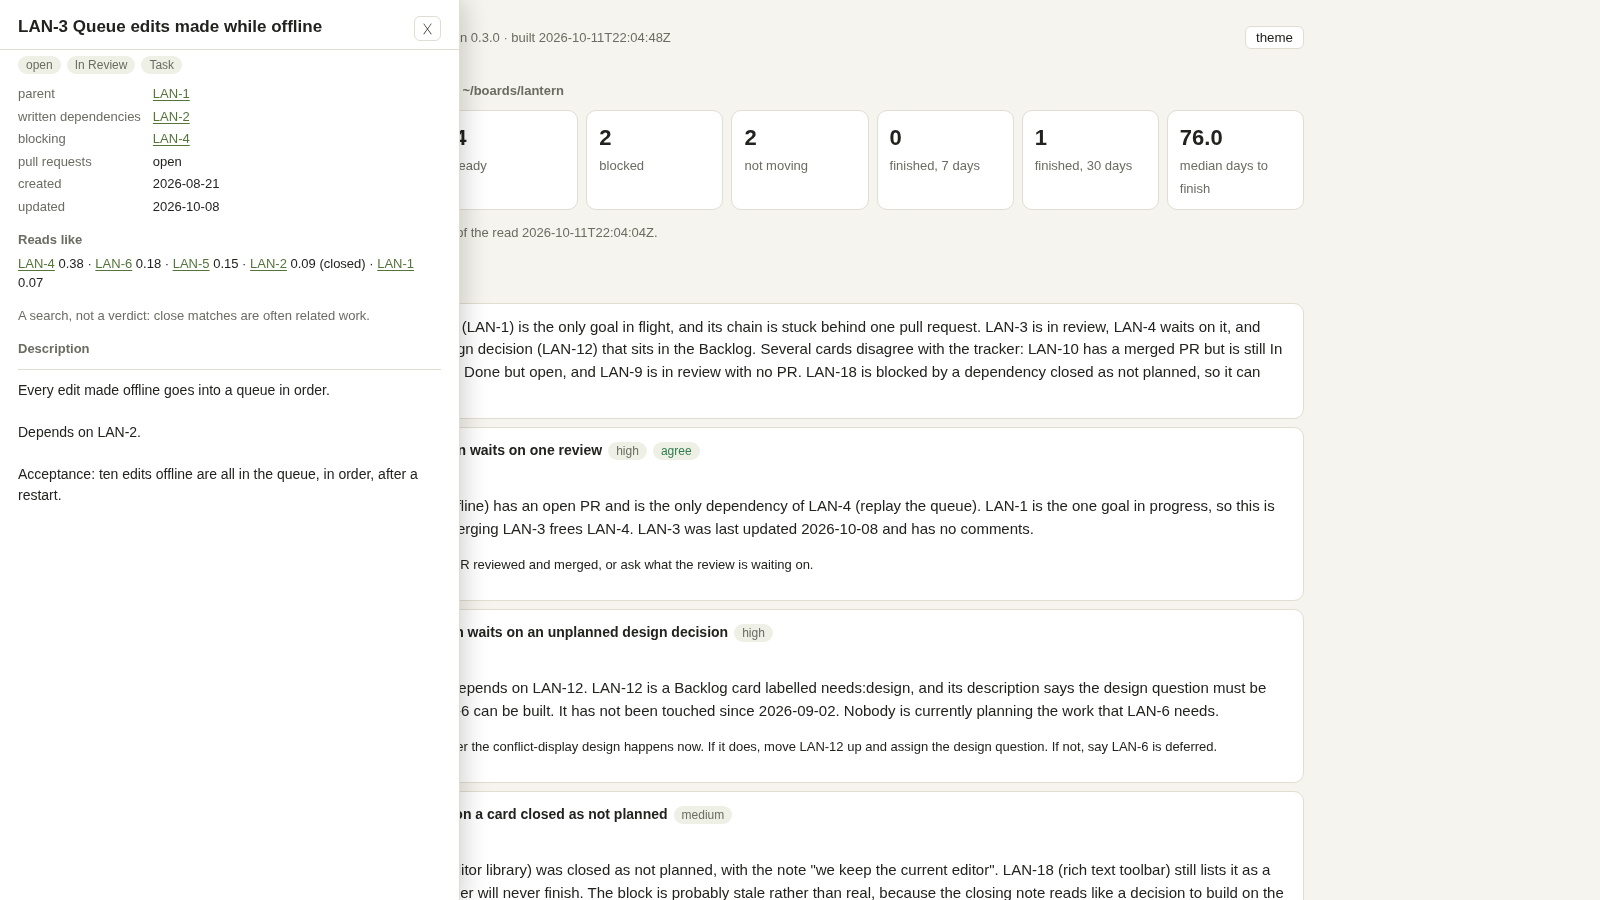
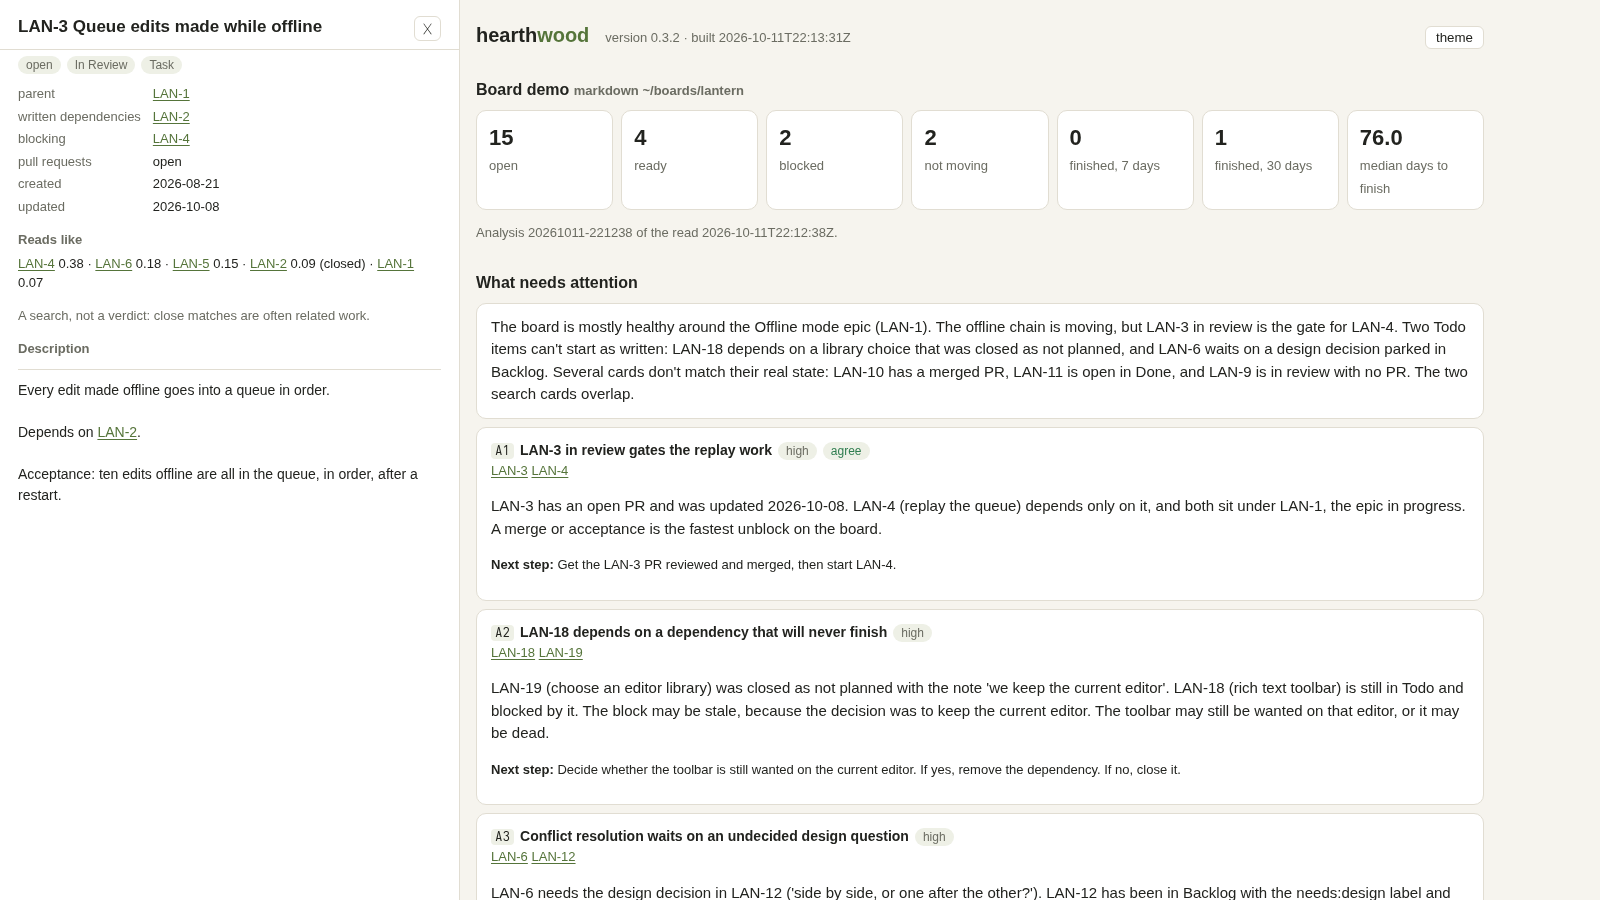
hearthwood 0.3.2: card numbers in a description open the card; every card can open; the findings' arrow on its line

diff --git a/src/hearthwood/worklog.py b/src/hearthwood/worklog.py
@@ -4,8 +4,8 @@ No server and no model writes it. Open ~/.hearthwood/log.html in a browser; relo
 
 A card number on the page opens that card in a panel. The page carries the cards it mentions, whole,
 as JSON beside the board's section, and the panel's script builds every node with textContent: a
-card's text is shown, never run. Cards the page only points to (a parent, a dependency, a close
-match) are carried as a stub: key, title, state, column, link.
+card's text is shown, never run. Every other card on the board is carried as a stub (key, title,
+state, column, link), so a card number met anywhere in the panel, a description included, opens.
 """
 
 import html
@@ -33,7 +33,7 @@ button.theme{margin-left:auto;background:var(--panel);color:var(--ink);border:1p
 .v-agree{color:var(--green)}.v-disagree{color:var(--red)}
 a{color:var(--accent)}code{font:12.5px ui-monospace,SFMono-Regular,Menlo,monospace;background:var(--chip);padding:0 4px;border-radius:4px}
 pre{white-space:pre-wrap;word-break:break-word;background:var(--panel);border:1px solid var(--line);border-radius:8px;padding:10px;font:12.5px/1.45 ui-monospace,SFMono-Regular,Menlo,monospace}
-details>summary{cursor:pointer}
+details>summary{cursor:pointer;list-style:none;display:flex;gap:8px;align-items:baseline}details>summary::-webkit-details-marker{display:none}details>summary::before{content:'▸';color:var(--mute);flex:none}details[open]>summary::before{content:'▾'}
 table{border-collapse:collapse;width:100%;font-size:13px}td,th{text-align:left;padding:4px 6px;border-bottom:1px solid var(--line)}
 button.key{font:inherit;color:var(--accent);background:none;border:0;padding:0;cursor:pointer;text-decoration:underline;text-underline-offset:2px}
 button.key:hover,button.key:focus-visible{color:var(--ink)}
@@ -65,6 +65,11 @@ function key(b,k,extra){var c=card(b,k);if(!c)return txt(k+(extra||''));var x=el
   x.title=c.title||'';var s=el('span');s.appendChild(x);if(extra)s.appendChild(txt(extra));return s}
 function keys(b,ks){var s=el('span');(ks||[]).forEach(function(k,i){if(i)s.appendChild(txt(', '));s.appendChild(key(b,k))});return s}
 function row(dl,label,node){if(!node)return;dl.appendChild(el('dt',null,label));var d=el('dd');d.appendChild(typeof node==='string'?txt(node):node);dl.appendChild(d)}
+function linked(b,text){var d=el('div','desc'),re=/#\d+|[A-Z][A-Z0-9_]*-\d+/g,at=0,m;
+  while((m=re.exec(text))){var before=m.index?text.charAt(m.index-1):'',after=text.charAt(m.index+m[0].length);
+    if(/[\w#-]/.test(before)||/[\w-]/.test(after)||!card(b,m[0]))continue;
+    if(m.index>at)d.appendChild(txt(text.slice(at,m.index)));d.appendChild(key(b,m[0]));at=m.index+m[0].length}
+  if(at<text.length)d.appendChild(txt(text.slice(at)));return d}
 function day(x){return x?String(x).slice(0,10):''}
 function state(c){return c.state+(c.close_reason?' ('+String(c.close_reason).replace('_',' ')+')':'')}
 function hashOf(b,k){return 'card='+(boards.length>1?encodeURIComponent(b)+'/':'')+encodeURIComponent(k)}
@@ -76,7 +81,7 @@ function show(b,k){var c=card(b,k);if(!c)return;P.textContent='';P.dataset.board
   var hd=el('header');var h=el('h2',null,k+' '+(c.title||''));h.id='panel-title';hd.appendChild(h);
   var x=el('button','close','✕');x.type='button';x.setAttribute('aria-label','Close');x.onclick=close;hd.appendChild(x);P.appendChild(hd);
   var chips=el('div','row');[state(c),c.column,c.kind].concat(c.labels||[]).forEach(function(v){if(v)chips.appendChild(el('span','chip',v))});P.appendChild(chips);
-  if(c.stub){P.appendChild(el('p','mute small','Only the cards this page mentions are carried whole; this one is pointed to.'))}
+  if(c.stub){P.appendChild(el('p','mute small','The page carries in full only the cards it mentions; this card\'s description is not on it.'))}
   else{var dl=el('dl');
     row(dl,'parent',c.parent?key(b,c.parent):null);
     row(dl,'sub-items',c.children&&c.children.length?keys(b,c.children):null);
@@ -95,7 +100,7 @@ function show(b,k){var c=card(b,k);if(!c)return;P.textContent='';P.dataset.board
       c.similar.forEach(function(m,i){if(i)ul.appendChild(txt(' · '));var o=card(b,m[0]);
         ul.appendChild(key(b,m[0],' '+Number(m[1]).toFixed(2)+(o&&o.state&&o.state!=='open'?' ('+o.state+')':'')))});
       P.appendChild(ul);P.appendChild(el('p','mute small','A search, not a verdict: close matches are often related work.'))}
-    P.appendChild(el('h3',null,'Description'));P.appendChild(el('div','desc',(c.body||'').trim()||'(empty)'))}
+    P.appendChild(el('h3',null,'Description'));P.appendChild(linked(b,(c.body||'').trim()||'(empty)'))}
   if(/^https?:\/\//.test(c.url||'')){var a=el('a',null,/^https:\/\/github\.com\//.test(c.url)?'Open on GitHub':'Open in the tracker');
     a.href=c.url;a.rel='noopener';var pp=el('p','small');pp.appendChild(a);P.appendChild(pp)}
   P.classList.add('open');document.body.classList.add('panel-open');P.setAttribute('aria-hidden','false');P.scrollTop=0;x.focus()}
@@ -130,7 +135,8 @@ CARD_FIELDS = ("key", "title", "state", "close_reason", "column", "kind", "label
 
 
 def card_data(items, ref, similar, people):
-    """What the panel shows: the cards in `ref` whole, the cards they point to as stubs."""
+    """What the panel shows: the cards in `ref` whole, every other card on the board as a stub, so any card
+    number the panel meets, in a field or in a description, opens something."""
     cards = {}
     for k in sorted(ref):
         it = items[k]
@@ -142,19 +148,10 @@ def card_data(items, ref, similar, people):
         if people:
             c["assignees"] = it.get("assignees") or []
         cards[k] = c
-    pointed = set()
-    for c in cards.values():
-        pointed.update([c["parent"]] if c["parent"] else [])
-        pointed.update(c["children"] or [])
-        pointed.update(c["blocked_by"] or [])
-        pointed.update(c["blocking"] or [])
-        pointed.update(c["depends_in_text"])
-        pointed.update(o for o, _ in c["similar"])
-    for k in sorted(pointed - set(cards)):
-        if k in items:
-            it = items[k]
-            cards[k] = {"key": k, "title": it.get("title"), "state": it.get("state"), "column": it.get("column"),
-                        "close_reason": it.get("close_reason"), "url": it.get("url"), "stub": True}
+    for k in sorted(set(items) - set(cards)):
+        it = items[k]
+        cards[k] = {"key": k, "title": it.get("title"), "state": it.get("state"), "column": it.get("column"),
+                    "close_reason": it.get("close_reason"), "url": it.get("url"), "stub": True}
     return cards
 
 

diff --git a/tests/test_worklog.py b/tests/test_worklog.py
@@ -59,6 +59,17 @@ class Page(unittest.TestCase):
             if c.get("stub"):
                 self.assertNotIn("body", c)
 
+    def test_every_card_on_the_board_can_open(self):
+        page = self.build()
+        cards = embedded(page)["demo"]
+        self.assertEqual(set(cards), {p.stem for p in DEMO.glob("LAN-*.md")})
+        self.assertTrue(cards["LAN-2"]["stub"])
+        self.assertEqual(cards["LAN-2"]["title"], "Store notes in a local database")
+
+    def test_the_finding_arrow_is_drawn_on_the_summary_line(self):
+        self.assertIn("details>summary::-webkit-details-marker{display:none}", worklog.CSS)
+        self.assertIn("content:'\u25b8'", worklog.CSS)
+
     def test_a_card_keeps_its_closest_matches(self):
         page = self.build()
         cards = embedded(page)["demo"]

diff --git a/src/hearthwood/__init__.py b/src/hearthwood/__init__.py
@@ -1,3 +1,3 @@
 """hearthwood: read a project board, see what needs attention, and teach it how you judge."""
 
-__version__ = "0.3.1"
+__version__ = "0.3.2"

diff --git a/docs/how-it-works.md b/docs/how-it-works.md
@@ -172,9 +172,13 @@ so does a click outside it when it covers the page. Each open card has its own a
 (`log.html#card=LAN-7`, or `#card=<board>/<key>` when the home holds more than one board), so it
 can be bookmarked or sent.
 
-The page carries only the cards it mentions, whole, and the cards those point to (a parent, a
-dependency, a close match) as a title and a state. On a board of 728 cards it carried 104 whole
-and 235 as titles, and the page weighed 575 KB.
+A card number written inside a description opens that card too, when it is a card on the board
+(`#12` on GitHub, `LAN-2` in a markdown board): a pull request's number, or a key that only looks
+like one, stays text.
+
+The page carries the cards it mentions whole, and every other card on the board as its title,
+state and column, so any card number opens something. On a board of 728 cards it carried 104
+whole and 624 as titles, and the page weighed 670 KB.
 
 A card's text is shown, never run: the panel builds every line with plain text and no HTML, and
 the embedded cards are escaped so that no card can close the element that holds them. Assignees

diff --git a/README.md b/README.md
@@ -13,7 +13,7 @@ approve or reject it, and it remembers which.
                                         └──── criteria.md ◄─────┴── verdicts ◄──┘
 ```
 
-![The page after one reading of the demo board, with card LAN-3 open in the side panel: its parent, dependency, the card it blocks, its pull request, the cards it reads most like and its description. Behind it: the board's numbers and the points that need attention, one already agreed with](docs/screenshot.png)
+![The page after one reading of the demo board, with card LAN-3 open in the side panel and the page beside it: the card's parent, dependency, the card it blocks, its pull request, the cards it reads most like and its description, where LAN-2 is a link. Beside it: the board's numbers and the points that need attention, one already agreed with](docs/screenshot.png)
 
 It is the sister of [hearthwork](https://github.com/alexandr352/hearthwork), which runs
 development tickets. Hearthwood looks after the board those tickets live on.

diff --git a/CHANGELOG.md b/CHANGELOG.md
@@ -1,5 +1,14 @@
 # Changelog
 
+## 0.3.2 — 2026-10-11
+
+- **Card numbers in a description open the card.** "Depends on LAN-2" links to LAN-2. Only the
+  numbers of real cards on the board are linked, as whole words; anything else stays text.
+- **Every card can open.** The page carries every card on the board, the ones it does not
+  mention as title, state and column (on a 728-card board: +95 KB).
+- **The findings' arrow** sits on the same line as the finding, not above it.
+- The screenshot shows the page beside the panel.
+
 ## 0.3.1 — 2026-10-11
 
 - **The page moves aside for the panel.** On a screen 1100 px wide or more, the page shifts right of
